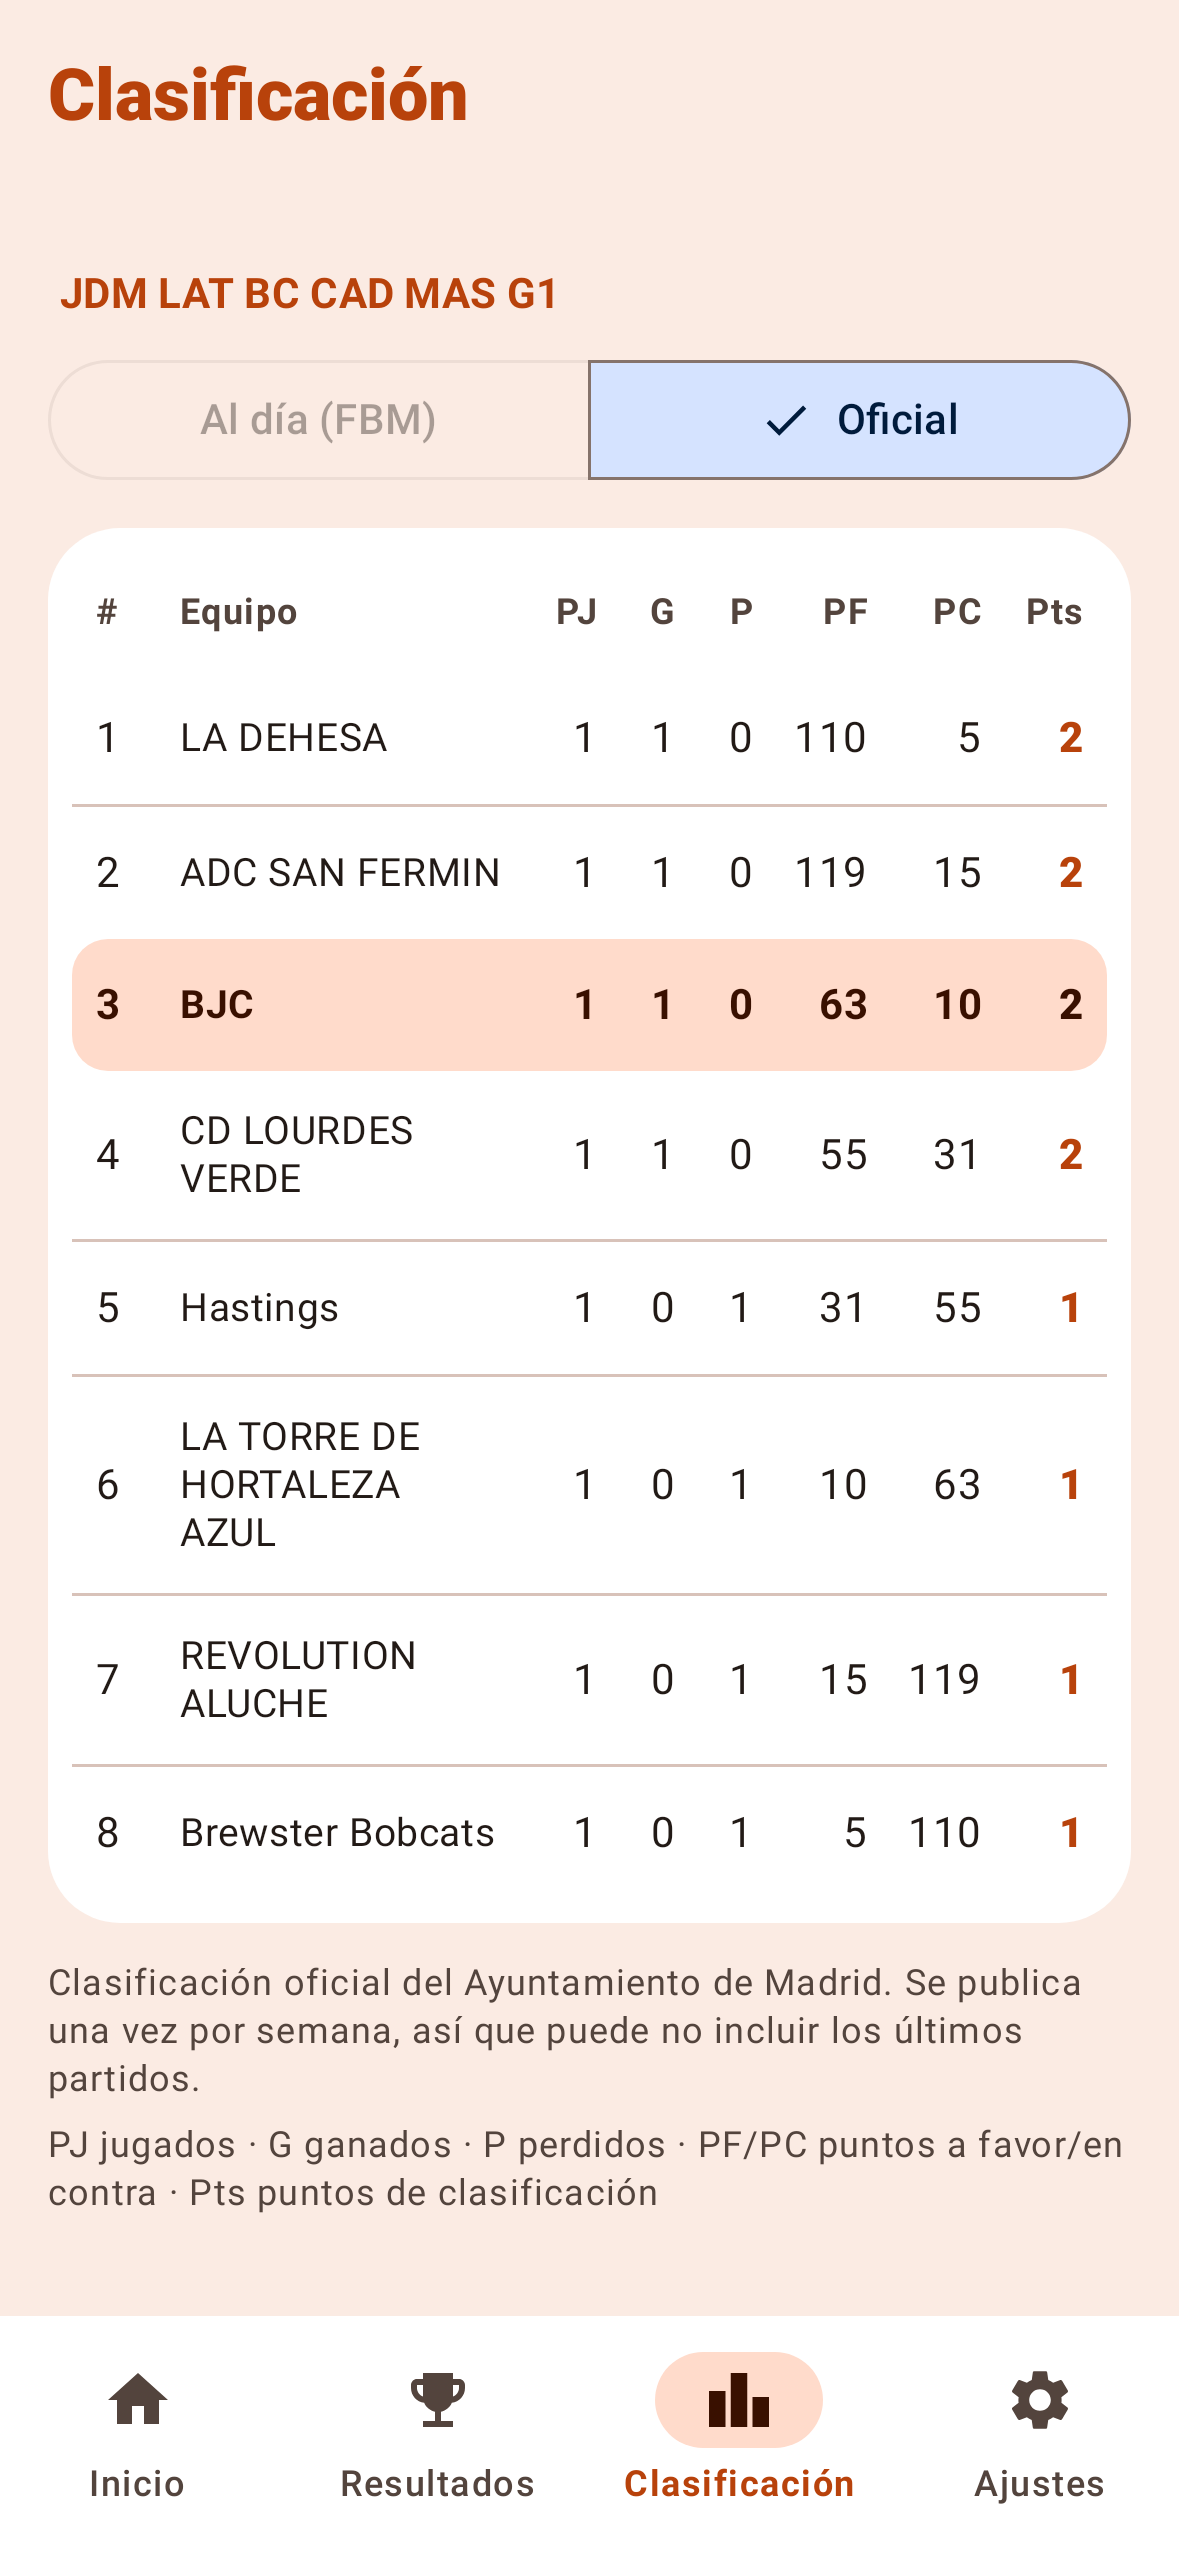
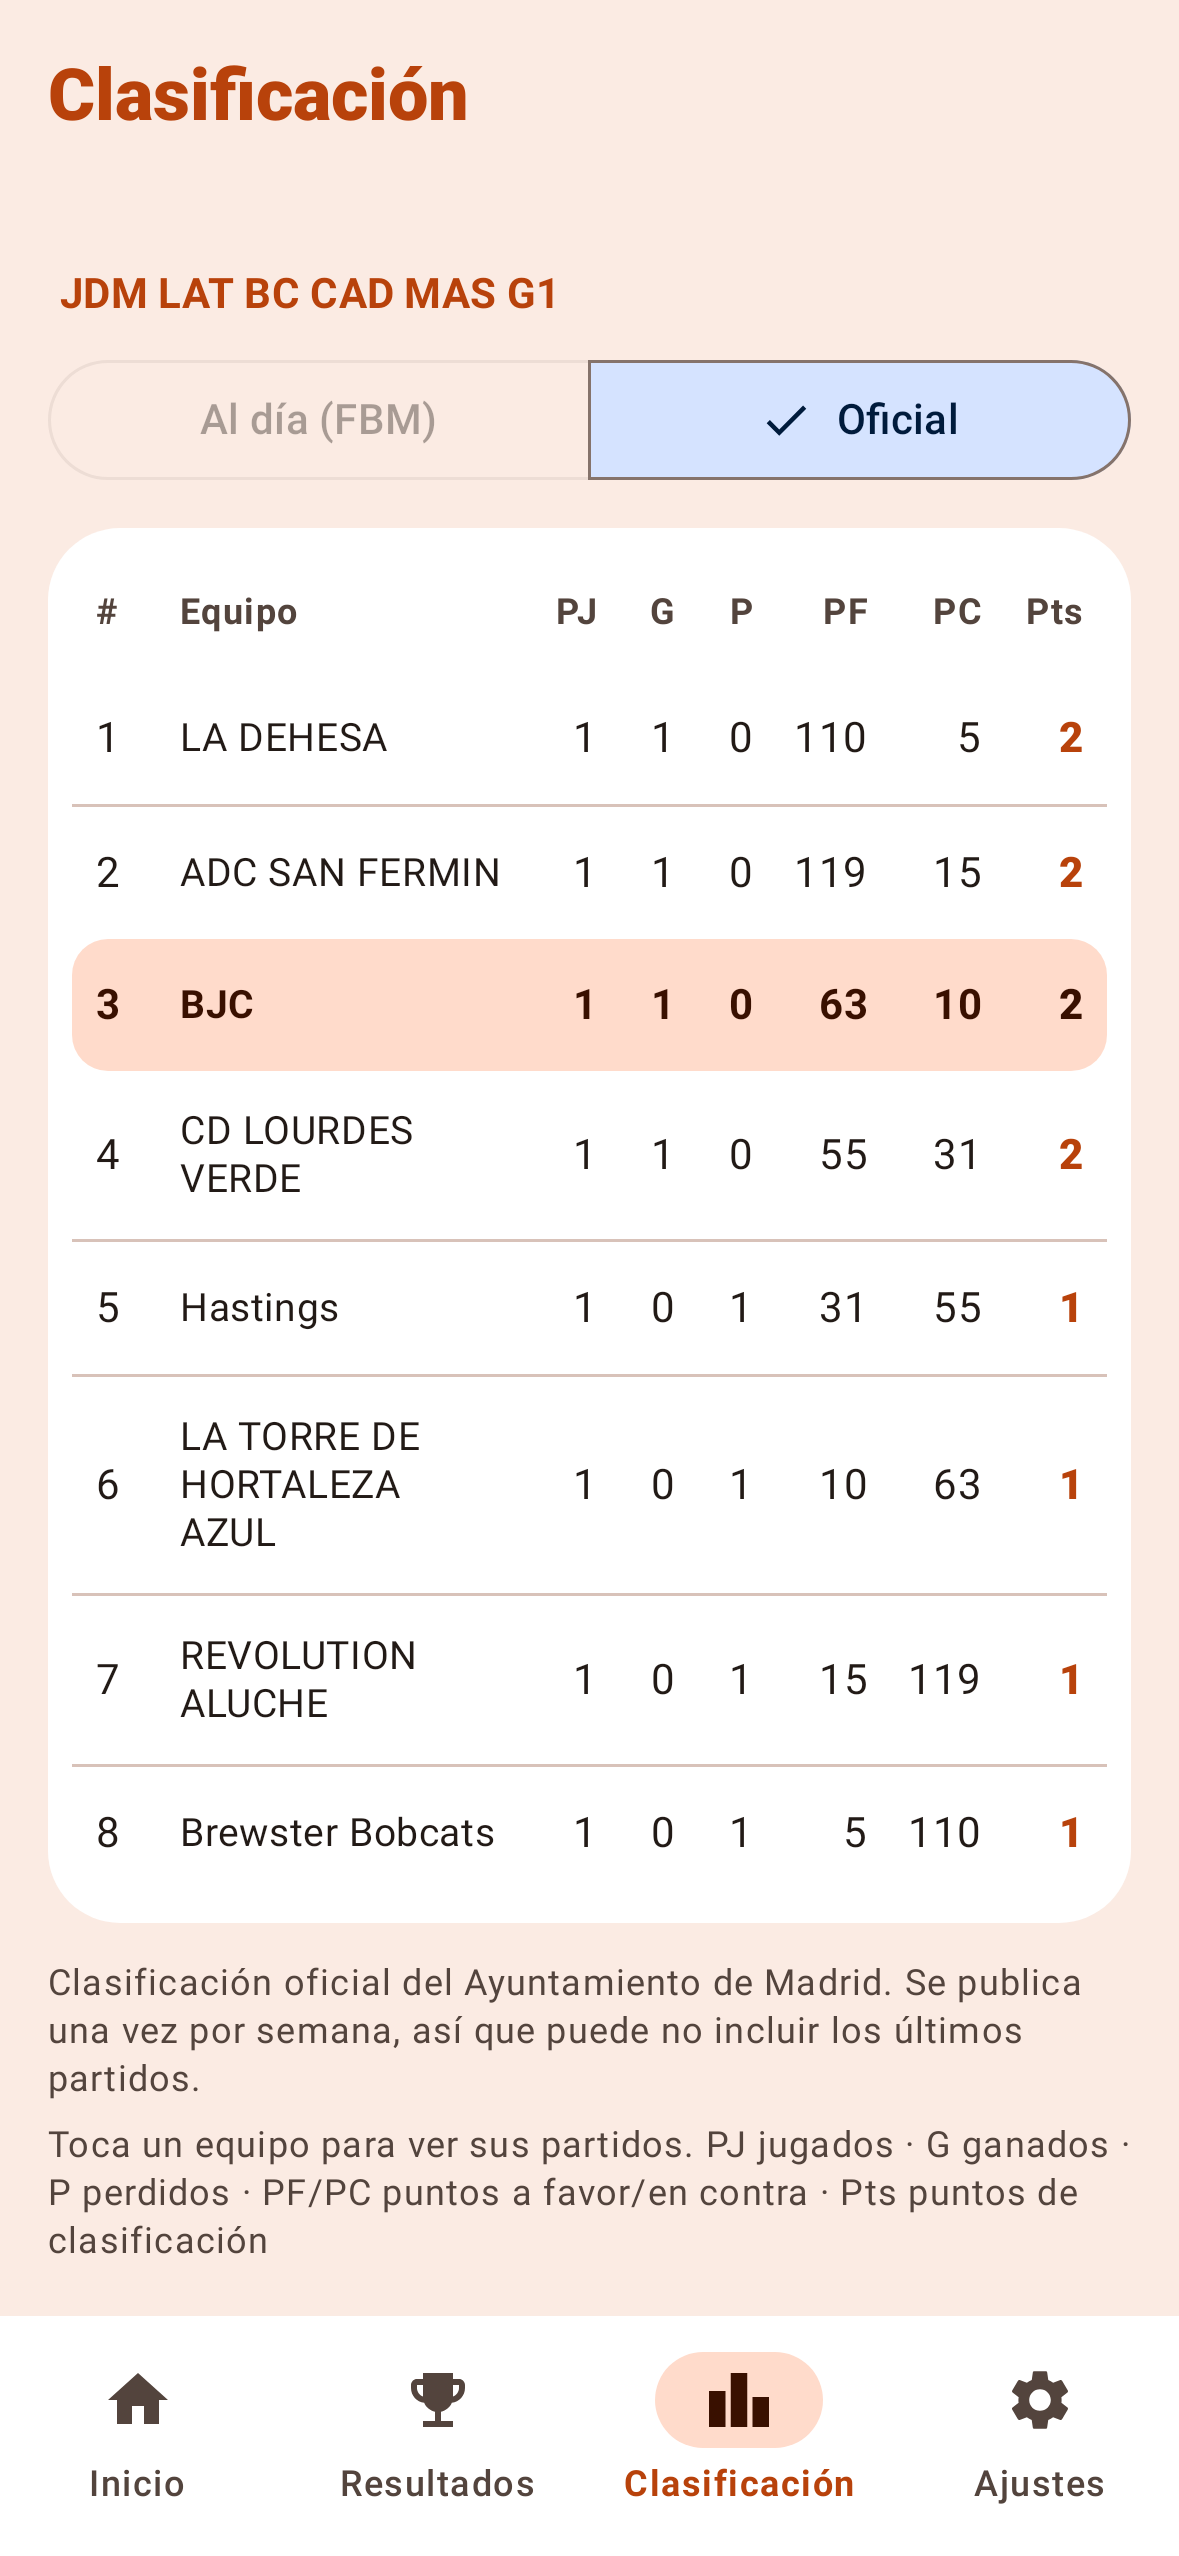
README: versión 1.0.41 (partidos de cada equipo desde la clasificación)
Claude-Session: https://claude.ai/code/session_01Bo9TQX3sZgRDAsS61yq6dP

Changed region(s): [[0.0305, 0.8345, 0.9466, 0.8963]]

diff --git a/README.md b/README.md
@@ -19,7 +19,8 @@ en esa página, en *Assets*, el archivo `jdm-baloncesto-vX.Y.Z.apk`.
 - **Retransmisión** del partido y grabación, cuando el Ayuntamiento lo emite (pabellón de Las Cruces).
 - **🎙 Crónica** de cada partido poco después de terminar: para leer, escuchar con la voz del móvil y
   compartir por WhatsApp.
-- **Clasificación** al día (con los resultados de la Federación) y la oficial del Ayuntamiento.
+- **Clasificación** al día (con los resultados de la Federación) y la oficial del Ayuntamiento; al tocar un
+  equipo, sus partidos jugados y los que le quedan.
 - **Calendario** opcional: un evento por partido en tu calendario.
 - **Se actualiza sola**: cuando hay versión nueva, la app lo avisa y se instala con dos toques.
 
